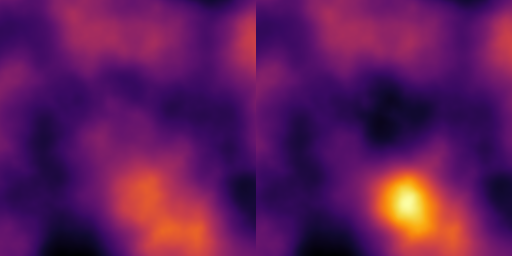
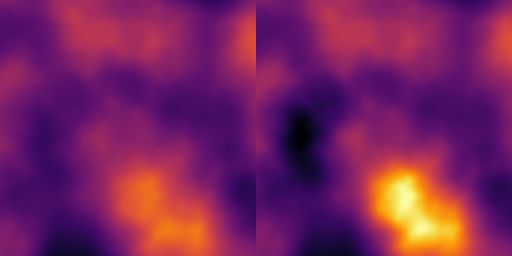
Add example

diff --git a/examples/ex_alter_elevation/ex_alter_elevation.cpp b/examples/ex_alter_elevation/ex_alter_elevation.cpp
@@ -11,13 +11,16 @@ int main(void)
   // modification point (x, y) in [0, 1]x[0, 1] and a value
   // corresponding to the relative elevation modification
   hmap::Cloud cloud = hmap::Cloud();
-  cloud.add_point(hmap::Point(0.5f, 0.5f, -0.5f));
-  cloud.add_point(hmap::Point(0.6f, 0.2f, 0.2f));
+  cloud.add_point(hmap::Point(0.2f, 0.5f, -1.f));
+  cloud.add_point(hmap::Point(0.6f, 0.2f, 1.f));
 
   hmap::Array z1 = z0;
   hmap::alter_elevation(z1, cloud, 32, 2.f);
 
   z1.to_png("out.png", hmap::cmap::inferno);
+
+  z0.infos();
+  z1.infos();
 
   hmap::export_banner_png("ex_alter_elevation.png",
                           {z0, z1},
